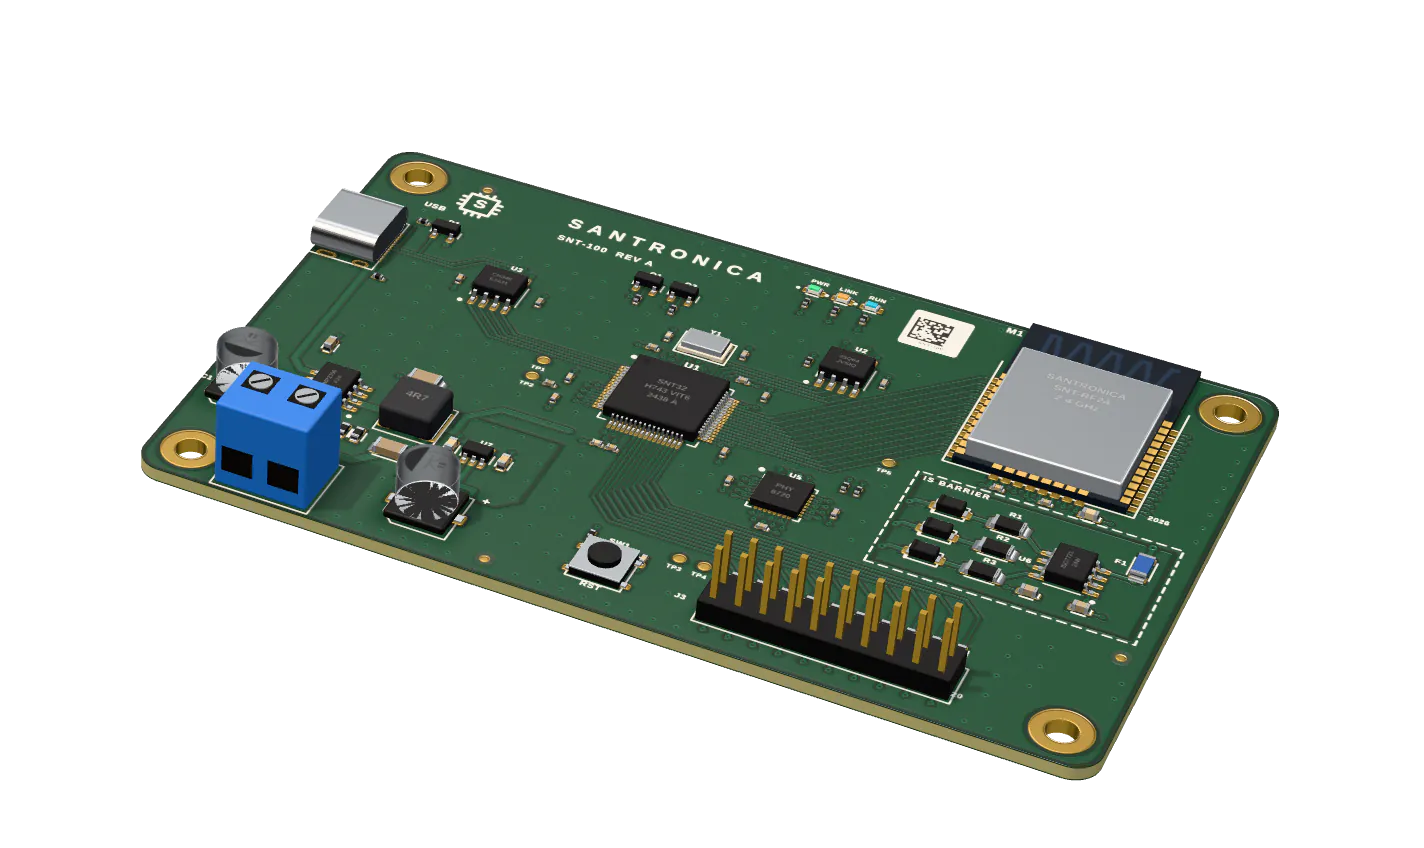
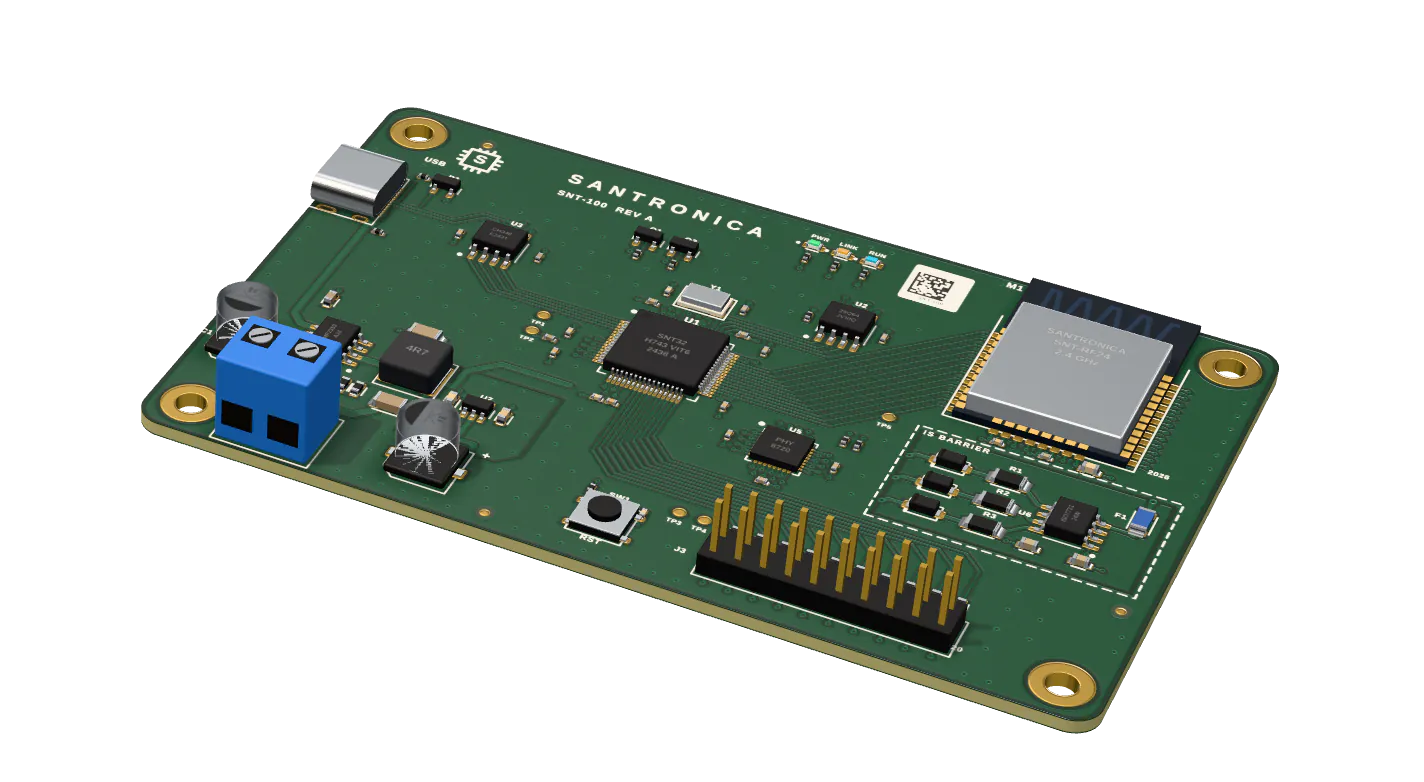
chore: re-render hero poster

Changed region(s): [[0.0927, 0.1228, 0.8961, 0.9514]]

diff --git a/index.html b/index.html
@@ -90,7 +90,7 @@
         </ul>
         <div class="hero-pcb-slot">
           <div class="pcb-slot" data-pcb-slot="hero" data-pcb-rx="38" data-pcb-spin="-28" data-pcb-ry="0" data-pcb-rz="0" data-pcb-explode="0" data-pcb-fit="0.98" data-pcb-opacity="1" aria-hidden="true"></div>
-          <img class="pcb-poster" src="images/pcb-poster.webp" alt="" width="1424" height="848" fetchpriority="high" decoding="async">
+          <img class="pcb-poster" src="images/pcb-poster.webp" alt="" width="1424" height="782" fetchpriority="high" decoding="async">
         </div>
       </div>
       <div class="hero-stats">
